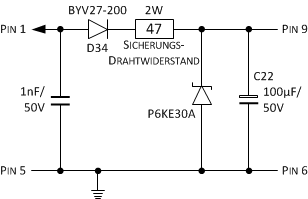
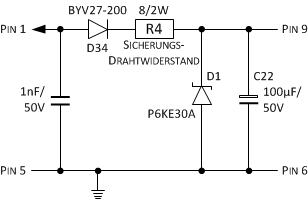
Update Power Supply

Changed region(s): [[0.4383, 0.0302, 0.5552, 0.0905], [0.6721, 0.3618, 0.7305, 0.4221], [0.4675, 0.1206, 0.526, 0.1809]]

diff --git a/pages/versorgungsspannung.md b/pages/versorgungsspannung.md
@@ -14,17 +14,19 @@ Für einfache Anwendungen reicht es, nur gegen zerstörerische Spannungen abzubl
 
 Um Störungen mit hohen Frequenzen von der Schaltung fernzuhalten, ist ganz vorne am Eingang ein Keramikkondensator von 1..10nF zwischen Versorgungsspannung und Masse sinnvoll, der diese Frequenzen dämpft. Um es noch _sauberer_ zu haben, könnte man anstatt den Sicherungswiderstand eine Drossel mit 47μH setzen.
 
-Um länger höhere Spannungen von der Schaltung fernhalten, wird eine Überspannungsschutzdiode (TVS-Diode, Transil) eingesetzt, die erst bei einer Spannung von 28,5V (Spannung für den Jumpstart-Test ist 28,8V und der Load Dump-Test erfolgt mit 27V) leitet und bei vollem Ableitstrom nicht mehr als die maximal erlaubte Spannung der Bauteile an die Schaltung lässt (absolutes Maximum bei 41,5V mit einem Stromimpuls von 14,4A siehe [Datenblatt](http://www.diodes.com/assets/Datasheets/ds21502.pdf)).
+Um länger höhere Spannungen von der Schaltung fernzuhalten, wird eine Überspannungsschutzdiode (TVS-Diode, Transil) eingesetzt, die erst bei einer Spannung von 28,5V (Spannung für den Jumpstart-Test ist 28,8V und der Load Dump-Test erfolgt mit 27V) leitet und bei vollem Ableitstrom nicht mehr als die maximal erlaubte Spannung der Bauteile an die Schaltung lässt (das Maximum liegt bei 41,5V mit einem Stromimpuls von 14,4A siehe [Datenblatt](http://www.diodes.com/assets/Datasheets/ds21502.pdf)).
 
 Eine Schaltung die zwar keine Prüfung nach ISO (7637-1 von 1990 für ein 12V-System) besteht, aber viele Faktoren bereits berücksichtigt, könnte wie folgt aussehen:
 
-![KFZ-Versorgungsspannung Abb. 2](../images/Versorgungsspannung_2.png)
+![KFZ-Versorgungsspannung (gesamt)](../images/Versorgungsspannung.png)
 
-Die TVS-Diode P6KE30A (Unidirektional) hat eine Durchbruchspannung von 28,5V, leitet sicher bei 31,5V und begrenzt die maximale Spannung, wenn die Quelle mehr liefert. Nachfolgende Bauteile sollten bis zu ca. 35V vertragen (der dann abzuleitende Strom ist dann schon so hoch, dass der Schutzwiderstand vorher _auslöst_). Bei Einsatz einer TVS-Diode kann der Keramikkondensator am Eingang ein 1nF/50V und der Elko ein Kondensator mit z.B. 100μF/50V sein. Da höhere Ströme durch die P6KE30A abfließen können, wurde die Diode BYV27-200 ausgewählt, die für ein Strom If bis 2A genutzt werden kann. Zudem hat Sie eine Sperrspannung bis 200V und weist eine Durchlassspannung UF von 1V auf.
+Die TVS-Diode P6KE30A (Unidirektional) hat eine Durchbruchspannung von 28,5V, leitet sicher bei 31,5V und begrenzt die maximale Spannung, wenn die Quelle mehr liefert. Nachfolgende Bauteile sollten bis zu ca. 35V vertragen (der dann abzuleitende Strom ist dann schon so hoch, dass der Sicherungswiderstand vorher _auslöst_). Bei Einsatz einer TVS-Diode kann der Keramikkondensator am Eingang ein 1nF/50V und der Elko ein Kondensator mit z.B. 100μF/50V sein. Da höhere Ströme durch die P6KE30A abfließen können, wurde die Diode BYV27-200 ausgewählt, die für ein Strom If bis 2A genutzt werden kann. Zudem hat Sie eine Sperrspannung bis 200V und weist eine Durchlassspannung UF von 1V auf.
+
+![KFZ-Versorgungsspannung Abb. 2](../images/Versorgungsspannung_2.png)
 
 Eine Stabilisierung mittles Zenerdiode ist einfach und ausreichend für die angeschlossenen Schaltungseinheiten. Mit Ihr kann eine einfache stabilisierte Spannungsausgang mit geringer Restwelligkeit bei wechselnden Laststrombedingungen erzeugt werden. 
 
-Indem die Zenerdiode einen Teil des Stroms von der Spannungsquelle über einen geeigneten Strombegrenzungswiderstand (R5) leitet, wird der Spannungsabfall an Pin 7.1 aufrechterhalten. Durch Verwendung einer 5,1V Zenerdiode (Datenblatt: [BZX79.pdf](http://www.nxp.com/documents/data_sheet/BZX79.pdf)) wird eine spannungsgeregelte Versorgung von ca. 5V (+/- 10%) zur Verfügung gestellt. Der maximal benötigte Ausgangsstrom an Pin 7.1 beträgt 10mA, somit kann die Leistungsaufnahme der Z-Dioden gering gehalten werden. Am Vorwiderstand können bis zu 30V (siehe oben) abfallen, daher ist ein Vorwiderstand von 2 Watt nötig.
+Indem die Zenerdiode einen Teil des Stroms von der Spannungsquelle über einen geeigneten Strombegrenzungswiderstand (R5) leitet, wird der Spannungsabfall an Pin 7.1 aufrechterhalten. Durch Verwendung einer 5,1V Zenerdiode (Datenblatt: [BZX79.pdf](http://www.nxp.com/documents/data_sheet/BZX79.pdf)) wird eine spannungsgeregelte Versorgung von ca. 5V (+/- 10%) zur Verfügung gestellt. Der maximal benötigte Ausgangsstrom an Pin 7.1 beträgt 10mA. Somit kann die Leistungsaufnahme der Z-Dioden gering gehalten werden. Am Vorwiderstand R5 können maximal bis zu 30V (siehe oben) abfallen, daher ist bei einem Widerstandswert von 390 Ohm ein Widerstand mit einer Leistung von mind. 2 Watt nötig.
 
 ![KFZ-Versorgungsspannung Abb. 3](../images/Versorgungsspannung_3.png)
 
